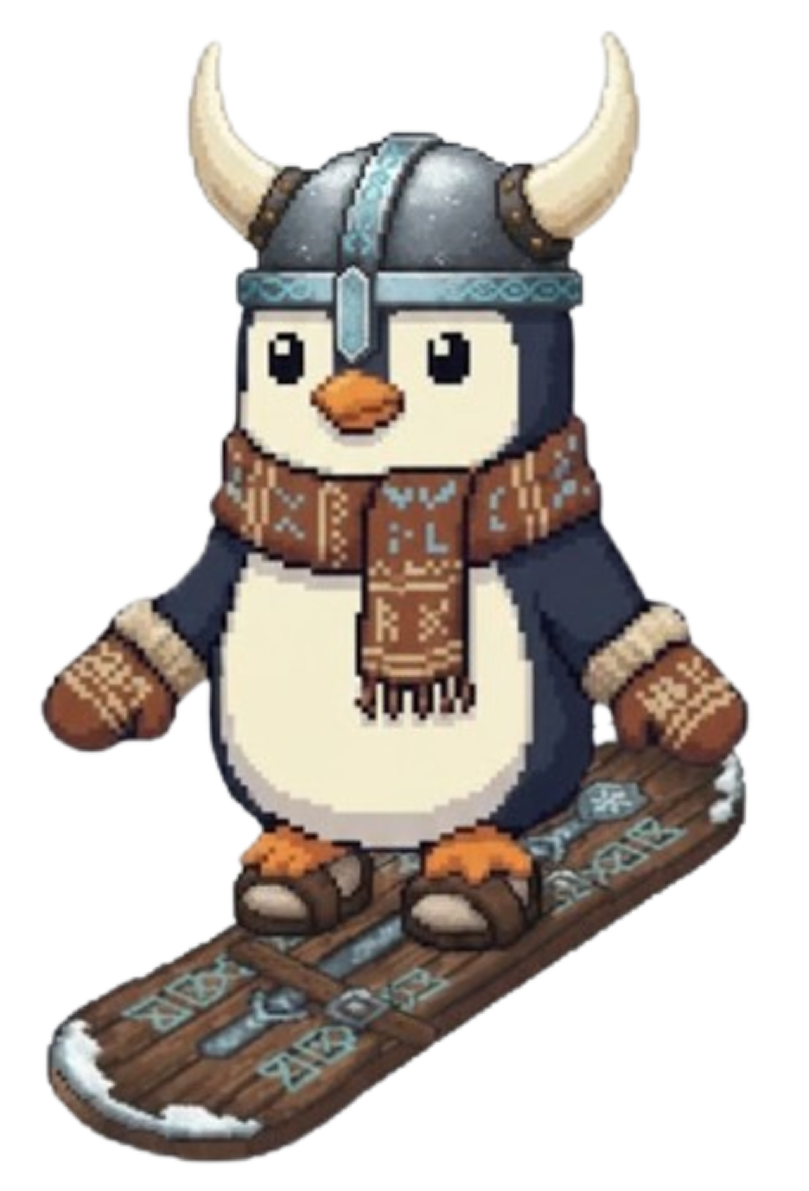
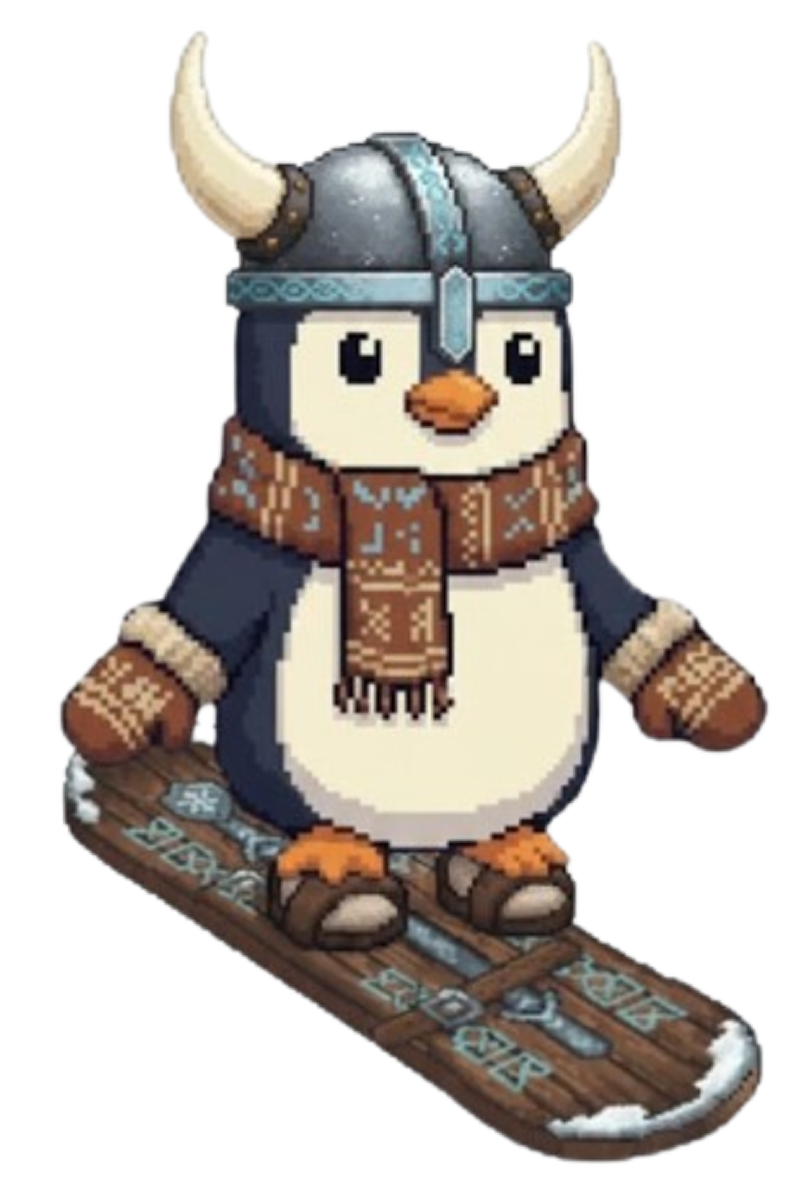
Add Level 3 image assets and update game files
- Add ice-field-background.png for Level 3 background
- Add ice.png for stable ice blocks
- Add ice-crack.png for cracked ice blocks
- Add splash.png for ice break effect
- Add frozen-forest-background.png and frozen-forest-background-with-hippo.png for Level 2
- Add tree-branch.png and ice-patch.png for Level 2 obstacles
- Add map.png for game navigation
- Update rune images (rune-a.png, rune-g.png, rune-m.png, rune-n.png, rune-o.png)
- Remove rune-background.png and patterned-background.png
- Update penguin snowboard sprites
- Update .gitignore, package.json, tsconfig.json, and game.ts
- Update IMAGE-NAMING-GUIDE.md documentation

diff --git a/game.js b/game.js
@@ -1953,7 +1953,7 @@ function startLevel(levelIndex) {
     const levelIntros = [
         ["Welcome, brave traveler, to Jollygut Hollow!", "I cannot guide you until I have regained my strength. These lands have drained me. Bring me fuel—sweet, juicy fuel..."],
         ["You have reached the Frozen Forest!", "The journey is quick, but be warned...", "It is covered with treacherous ice patches and falling tree branches, which you must avoid. Use Arrow Keys: ← to slow down, → to speed up, ↑ to jump."],
-        ["The Frozen Reach", "Not all ice is sworn to hold.", "Winter reveals its weakness only once.", "Those who rush will not see it.", "Step where the ice remembers its strength."],
+        ["We have arrived at The Frozen Reach", "Not all ice is sworn to hold. Winter reveals its weakness only once.", "Those who rush will not see it. Step where the ice remembers its strength."],
         ["The Cipher Stones await your wisdom!", "Select all the solid glyphs and avoid the hollow ones."],
         ["The final trial: the Sky Bridge!", "Step on the floating tiles in ascending order, from 1 to 7."]
     ];

diff --git a/game.ts b/game.ts
@@ -313,8 +313,7 @@ function completeLevel() {
     awardRune();
     
     const levelMessages = [
-        "Well done, brave traveler! You have earned a Rune of Winter.",
-        "The ancient power flows through you. Your journey continues..."
+        "Well done, brave traveler! You have earned a Rune of Winter. The ancient power flows through you. Your journey continues..."
     ];
     
     showDialogue(levelMessages, () => {

diff --git a/IMAGE-NAMING-GUIDE.md b/IMAGE-NAMING-GUIDE.md
@@ -78,3 +78,5 @@ The game starts with these defaults:
 5. User clicks "Next" to proceed with their selections
 
 
+
+
